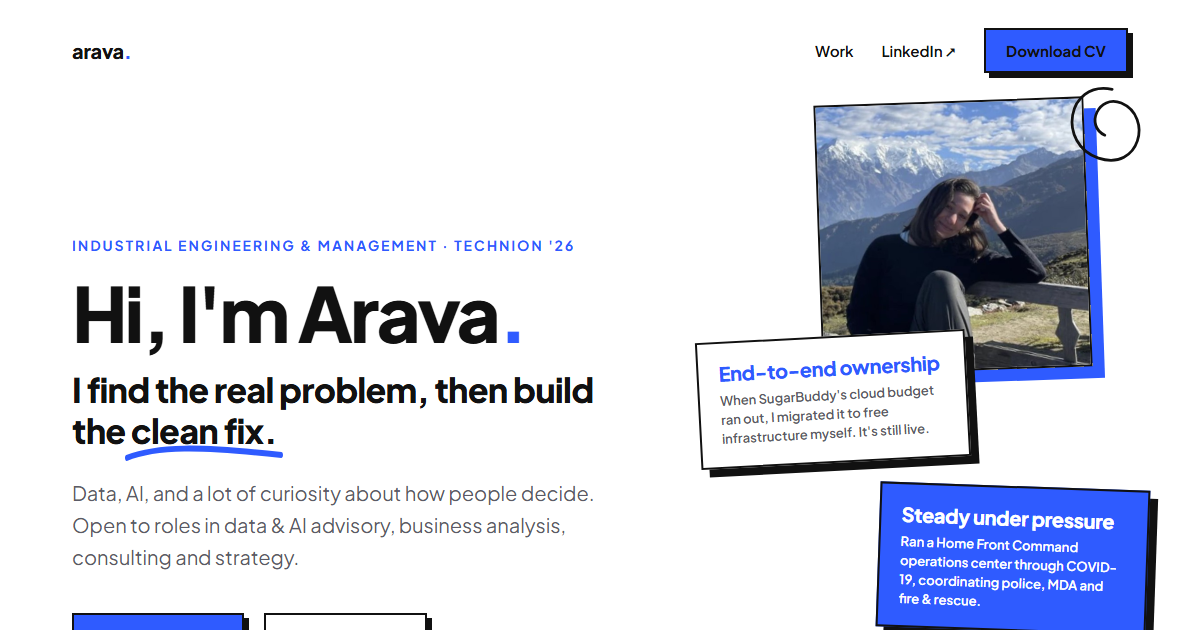
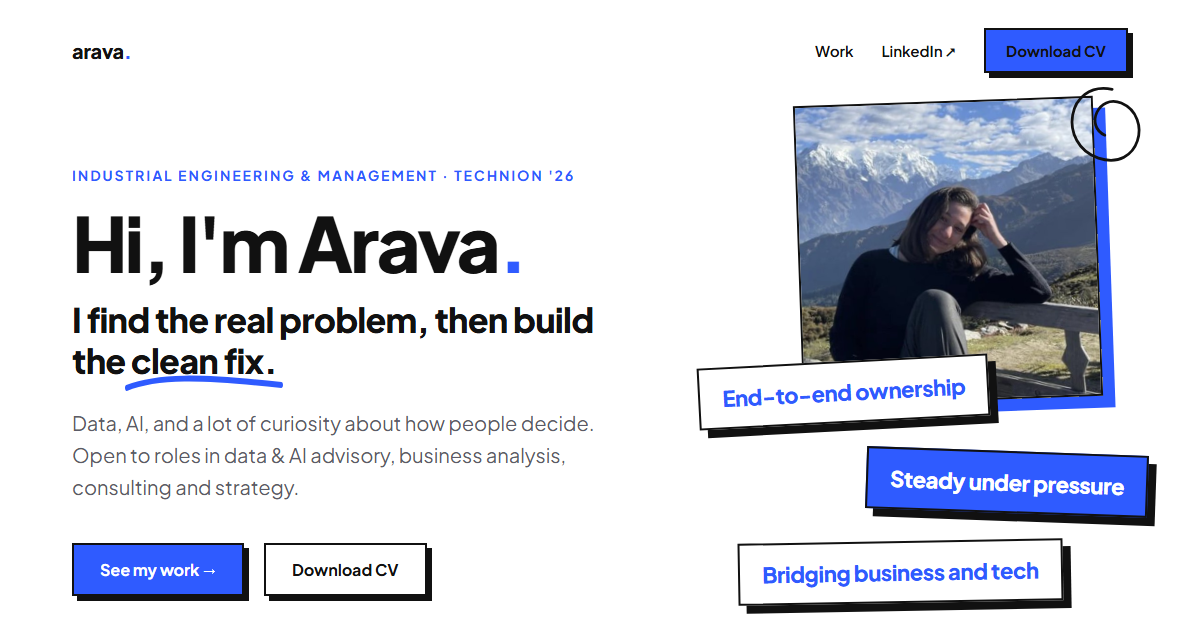
Hero cards: titles only

Changed region(s): [[0.5858, 0.1508, 0.9867, 1.0], [0.0617, 0.3317, 0.4933, 1.0], [0.0617, 0.2714, 0.4933, 0.3016]]

diff --git a/index.html b/index.html
@@ -31,9 +31,9 @@
     <div class="stack">
       <img class="me" src="assets/img/arava.jpg" alt="Arava sitting on a wooden bench with snowy mountains behind her">
       <svg class="scribble" viewBox="0 0 120 120" aria-hidden="true"><path d="M70 20 C 20 10, 10 80, 55 95 C 100 110, 115 50, 80 35 C 55 25, 40 60, 62 70" stroke="#111" stroke-width="3" fill="none" stroke-linecap="round"/></svg>
-      <a class="tile t1" href="work/sugarbuddy.html"><b>End-to-end ownership</b><span>When SugarBuddy's cloud budget ran out, I migrated it to free infrastructure myself. It's still live.</span></a>
-      <a class="tile t2" href="assets/cv.pdf" download><b>Steady under pressure</b><span>Ran a Home Front Command operations center through COVID-19, coordinating police, MDA and fire &amp; rescue.</span></a>
-      <a class="tile t3" href="work/achvalens.html"><b>Bridging business and tech</b><span>Turned a nonprofit's guidelines into a working AI tool, and a research question into a validated AI grader.</span></a>
+      <a class="tile t1" href="work/sugarbuddy.html"><b>End-to-end ownership</b></a>
+      <a class="tile t2" href="assets/cv.pdf" download><b>Steady under pressure</b></a>
+      <a class="tile t3" href="work/achvalens.html"><b>Bridging business and tech</b></a>
     </div>
   </section>
 </div>

diff --git a/assets/style.css b/assets/style.css
@@ -210,3 +210,12 @@ footer .btn.ghost { background:transparent; color:#fff; }
 .stack .tile.t2 { top:385px; right:-20px; }
 .stack .tile.t3 { top:540px; left:0; }
 @media (max-width: 860px) { .stack { height:auto; } }
+/* Hero cards: titles only */
+.stack { height:560px; }
+.stack .me { left:70px; width:300px; }
+.stack .tile { width:auto; padding:16px 22px; }
+.stack .tile b { font-size:22px; margin:0; white-space:nowrap; }
+.stack .tile.t1 { top:260px; left:-30px; }
+.stack .tile.t2 { top:350px; right:-20px; }
+.stack .tile.t3 { top:440px; left:10px; }
+@media (max-width: 860px) { .stack { height:auto; } .stack .tile b { white-space:normal; } }
